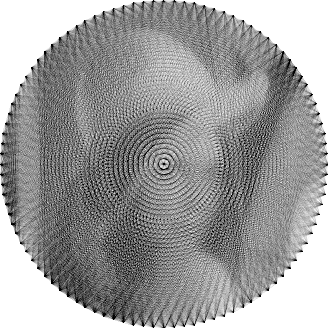
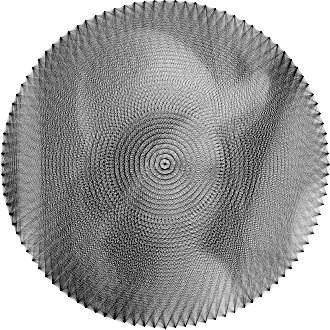
feat: implemented sketch effect

diff --git a/stringart/experiments/image_preprocessing.py b/stringart/experiments/image_preprocessing.py
@@ -83,6 +83,15 @@ def compute_solution_parallel(src, shape, number_of_pegs, crop_mode, matrix_repr
                 crop_mode,
                 matrix_representation,
             ),
+            "sketch_effect": executor.submit(
+                process_image,
+                np.copy(src),
+                ImageWrapper.sketch_effect,
+                shape,
+                number_of_pegs,
+                crop_mode,
+                matrix_representation,
+            ),
         }
 
         # Collect the results
@@ -92,12 +101,15 @@ def compute_solution_parallel(src, shape, number_of_pegs, crop_mode, matrix_repr
     solution_raw = results["raw"]
     solution_histogram_equalization = results["histogram_equalization"]
     solution_grayscale_quantization = results["grayscale_quantization"]
+    solution_sketch_effect = results["sketch_effect"]
 
-    return solution_raw, solution_histogram_equalization, solution_grayscale_quantization
+    return solution_raw, solution_histogram_equalization, solution_grayscale_quantization, solution_sketch_effect
 
 
-def plot_preprocessed(raw: np.ndarray, histogram_equalization: np.ndarray, grayscale_quantization: np.ndarray) -> None:
-    fig, axs = plt.subplots(1, 4, constrained_layout=True, figsize=(12, 4))
+def plot_preprocessed(
+    raw: np.ndarray, histogram_equalization: np.ndarray, grayscale_quantization: np.ndarray, sketch_effect: np.ndarray
+) -> None:
+    fig, axs = plt.subplots(1, 5, constrained_layout=True, figsize=(20, 4))
     fig.suptitle("Preprocess Effects using Linear Least Squares")
 
     axs[0].set_title("Input Image")
@@ -116,19 +128,26 @@ def plot_preprocessed(raw: np.ndarray, histogram_equalization: np.ndarray, grays
     axs[3].imshow(grayscale_quantization, cmap=cmap)
     axs[3].axis("off")
 
+    axs[4].set_title("Sketch Effect")
+    axs[4].imshow(sketch_effect, cmap=cmap)
+    axs[4].axis("off")
+
     fig.show()
     fig.savefig("../../outputs/preprocess/image_processing_stages.png")
 
 
 def plot_diff_preprocess_methods(
-    raw: np.ndarray, histogram_equalization: np.ndarray, grayscale_quantization: np.ndarray
+    raw: np.ndarray, histogram_equalization: np.ndarray, grayscale_quantization: np.ndarray, sketch_effect: np.ndarray
 ) -> None:
-    raw_hist_diff = histogram_equalization - raw
-    raw_gray_diff = grayscale_quantization - raw
-    raw_hist_diff_prepared, raw_gray_diff_prepared = prepare_diff_images([raw_hist_diff, raw_gray_diff], crop_mode)
+    raw_hist_diff = np.abs(histogram_equalization - raw)
+    raw_gray_diff = np.abs(grayscale_quantization - raw)
+    raw_sketch_diff = np.abs(sketch_effect - raw)
+    raw_hist_diff_prepared, raw_gray_diff_prepared, raw_sketch_diff_prepared = prepare_diff_images(
+        [raw_hist_diff, raw_gray_diff, raw_sketch_diff], crop_mode
+    )
 
     cmap = "plasma"
-    fig, axs = plt.subplots(1, 2, constrained_layout=True, figsize=(9, 4.5))
+    fig, axs = plt.subplots(1, 3, constrained_layout=True, figsize=(12, 4))
     fig.suptitle("Diff Analysis on Preprocess Methods")
 
     axs[0].set_title("Histogram Equalization")
@@ -139,19 +158,24 @@ def plot_diff_preprocess_methods(
     axs[1].imshow(raw_gray_diff_prepared, cmap=cmap)
     axs[1].axis("off")
 
+    axs[2].set_title("Sketch Effect")
+    axs[2].imshow(raw_sketch_diff_prepared, cmap=cmap)
+    axs[2].axis("off")
+
     fig.show()
     fig.savefig("../../outputs/preprocess/diff_analysis_on_preprocess_methods.png")
 
 
 def plot_fft_preprocess_methods(
-    raw: np.ndarray, histogram_equalization: np.ndarray, grayscale_quantization: np.ndarray
+    raw: np.ndarray, histogram_equalization: np.ndarray, grayscale_quantization: np.ndarray, sketch_effect: np.ndarray
 ) -> None:
     raw_fft_spectrum = np.log(np.abs(np.fft.fftshift(np.fft.fft2(raw))) + 1)
     hist_fft_spectrum = np.log(np.abs(np.fft.fftshift(np.fft.fft2(histogram_equalization))) + 1)
     gray_fft_spectrum = np.log(np.abs(np.fft.fftshift(np.fft.fft2(grayscale_quantization))) + 1)
+    sketch_fft_spectrum = np.log(np.abs(np.fft.fftshift(np.fft.fft2(sketch_effect))) + 1)
 
     cmap = "plasma"
-    fig, axs = plt.subplots(1, 3, constrained_layout=True, figsize=(9, 3.5))
+    fig, axs = plt.subplots(1, 4, constrained_layout=True, figsize=(16, 4))
     fig.suptitle("FFT Analysis on Preprocess Methods")
 
     axs[0].set_title("Raw")
@@ -166,12 +190,16 @@ def plot_fft_preprocess_methods(
     axs[2].imshow(gray_fft_spectrum, cmap=cmap)
     axs[2].axis("off")
 
+    axs[3].set_title("Sketch Effect")
+    axs[3].imshow(sketch_fft_spectrum, cmap=cmap)
+    axs[3].axis("off")
+
     fig.show()
     fig.savefig("../../outputs/preprocess/fft_analysis_on_preprocess_methods.png")
 
 
 def plot_overlay_analysis(
-    raw: np.ndarray, histogram_equalization: np.ndarray, grayscale_quantization: np.ndarray
+    raw: np.ndarray, histogram_equalization: np.ndarray, grayscale_quantization: np.ndarray, sketch_effect: np.ndarray
 ) -> None:
     def overlay(img1: np.ndarray, img2: np.ndarray, amount: float = 0.5) -> np.ndarray:
         # the function x^2 compresses values closer to 0 more aggressive, while preserving 1 as it is
@@ -190,13 +218,11 @@ def plot_overlay_analysis(
 
         return amount * img1_colored + (1 - amount) * img2_colored
 
-    plt.imshow(raw, cmap="grey")
-    plt.show()
-
     overlay_hist = overlay(raw, histogram_equalization)
     overlay_gray = overlay(raw, grayscale_quantization)
+    overlay_sketch = overlay(raw, sketch_effect)
 
-    fig, axs = plt.subplots(1, 2, constrained_layout=True, figsize=(9, 4.5))
+    fig, axs = plt.subplots(1, 3, constrained_layout=True, figsize=(12, 4))
     fig.suptitle("Overlay Analysis on Preprocess Methods")
 
     axs[0].set_title("Histogram Equalization")
@@ -206,6 +232,10 @@ def plot_overlay_analysis(
     axs[1].set_title("Grayscale Quantization")
     axs[1].imshow(overlay_gray)
     axs[1].axis("off")
+
+    axs[2].set_title("Sketch Effect")
+    axs[2].imshow(overlay_sketch)
+    axs[2].axis("off")
 
     fig.show()
     fig.savefig("../../outputs/preprocess/overlay_analysis_on_preprocess_methods.png")
@@ -224,7 +254,11 @@ def main():
     # fmt: on
     save_img(dst, "grayscale_quantization_2_levels")
 
-    raw, histogram_equalization, grayscale_quantization = compute_solution_parallel(
+    dst = ImageWrapper.sketch_effect(src)
+    plot_preprocess(src, dst, "Sketch Effect", "../../outputs/misc/sketch_effect_preprocess.png")
+    save_img(dst, "sketch_effect")
+
+    raw, histogram_equalization, grayscale_quantization, sketch_effect = compute_solution_parallel(
         np.copy(image),
         shape,
         number_of_pegs,
@@ -236,11 +270,12 @@ def main():
     raw = ImageWrapper.scale_image(raw)
     histogram_equalization = ImageWrapper.scale_image(histogram_equalization)
     grayscale_quantization = ImageWrapper.scale_image(grayscale_quantization)
+    sketch_effect = ImageWrapper.scale_image(sketch_effect)
 
-    plot_preprocessed(raw, histogram_equalization, grayscale_quantization)
-    plot_diff_preprocess_methods(raw, histogram_equalization, grayscale_quantization)
-    plot_overlay_analysis(raw, histogram_equalization, grayscale_quantization)
-    plot_fft_preprocess_methods(raw, histogram_equalization, grayscale_quantization)
+    plot_preprocessed(raw, histogram_equalization, grayscale_quantization, sketch_effect)
+    plot_diff_preprocess_methods(raw, histogram_equalization, grayscale_quantization, sketch_effect)
+    plot_overlay_analysis(raw, histogram_equalization, grayscale_quantization, sketch_effect)
+    plot_fft_preprocess_methods(raw, histogram_equalization, grayscale_quantization, sketch_effect)
 
 
 if __name__ == "__main__":

diff --git a/stringart/utils/image.py b/stringart/utils/image.py
@@ -2,6 +2,7 @@ from pathlib import Path
 
 import numpy as np
 from matplotlib.pyplot import imread
+from skimage import filters
 from skimage.color import rgb2gray
 from stringart.utils.types import CropMode, Point
 
@@ -186,6 +187,20 @@ class ImageWrapper:
         dst = dst.astype(np.float32) / 255.0
 
         return dst
+
+    @staticmethod
+    def sketch_effect(src: np.ndarray) -> np.ndarray:
+        # TODO: document
+        inverted_src = 1.0 - src
+        blurred_inverted = filters.gaussian(inverted_src, sigma=10)
+        inverted_blurred = 1.0 - blurred_inverted
+
+        epsilon = 1e-8
+        divided = src / (inverted_blurred + epsilon)
+
+        dst = np.clip(divided, 0, 1)
+
+        return ImageWrapper.histogram_equalization(dst)
 
 
 def find_radius_and_center_point(shape: tuple[int, ...], crop_mode: CropMode | None = None) -> tuple[int, Point | None]:
